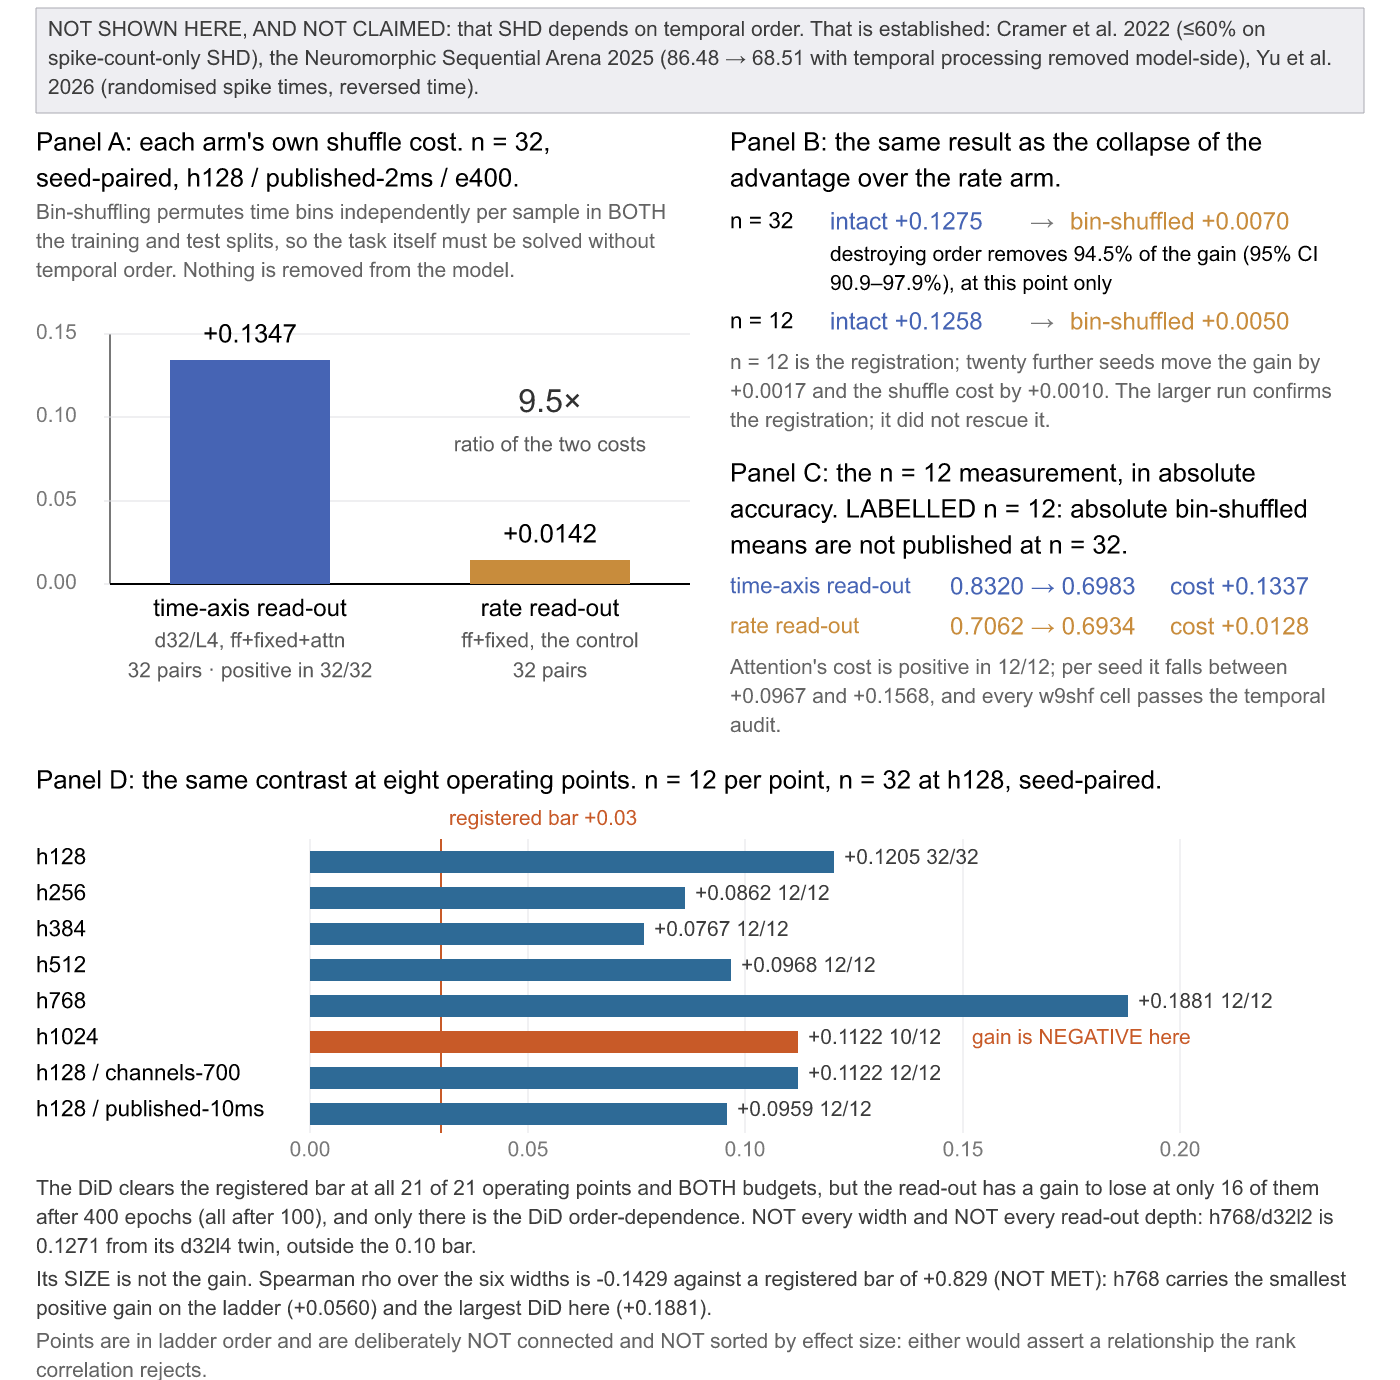
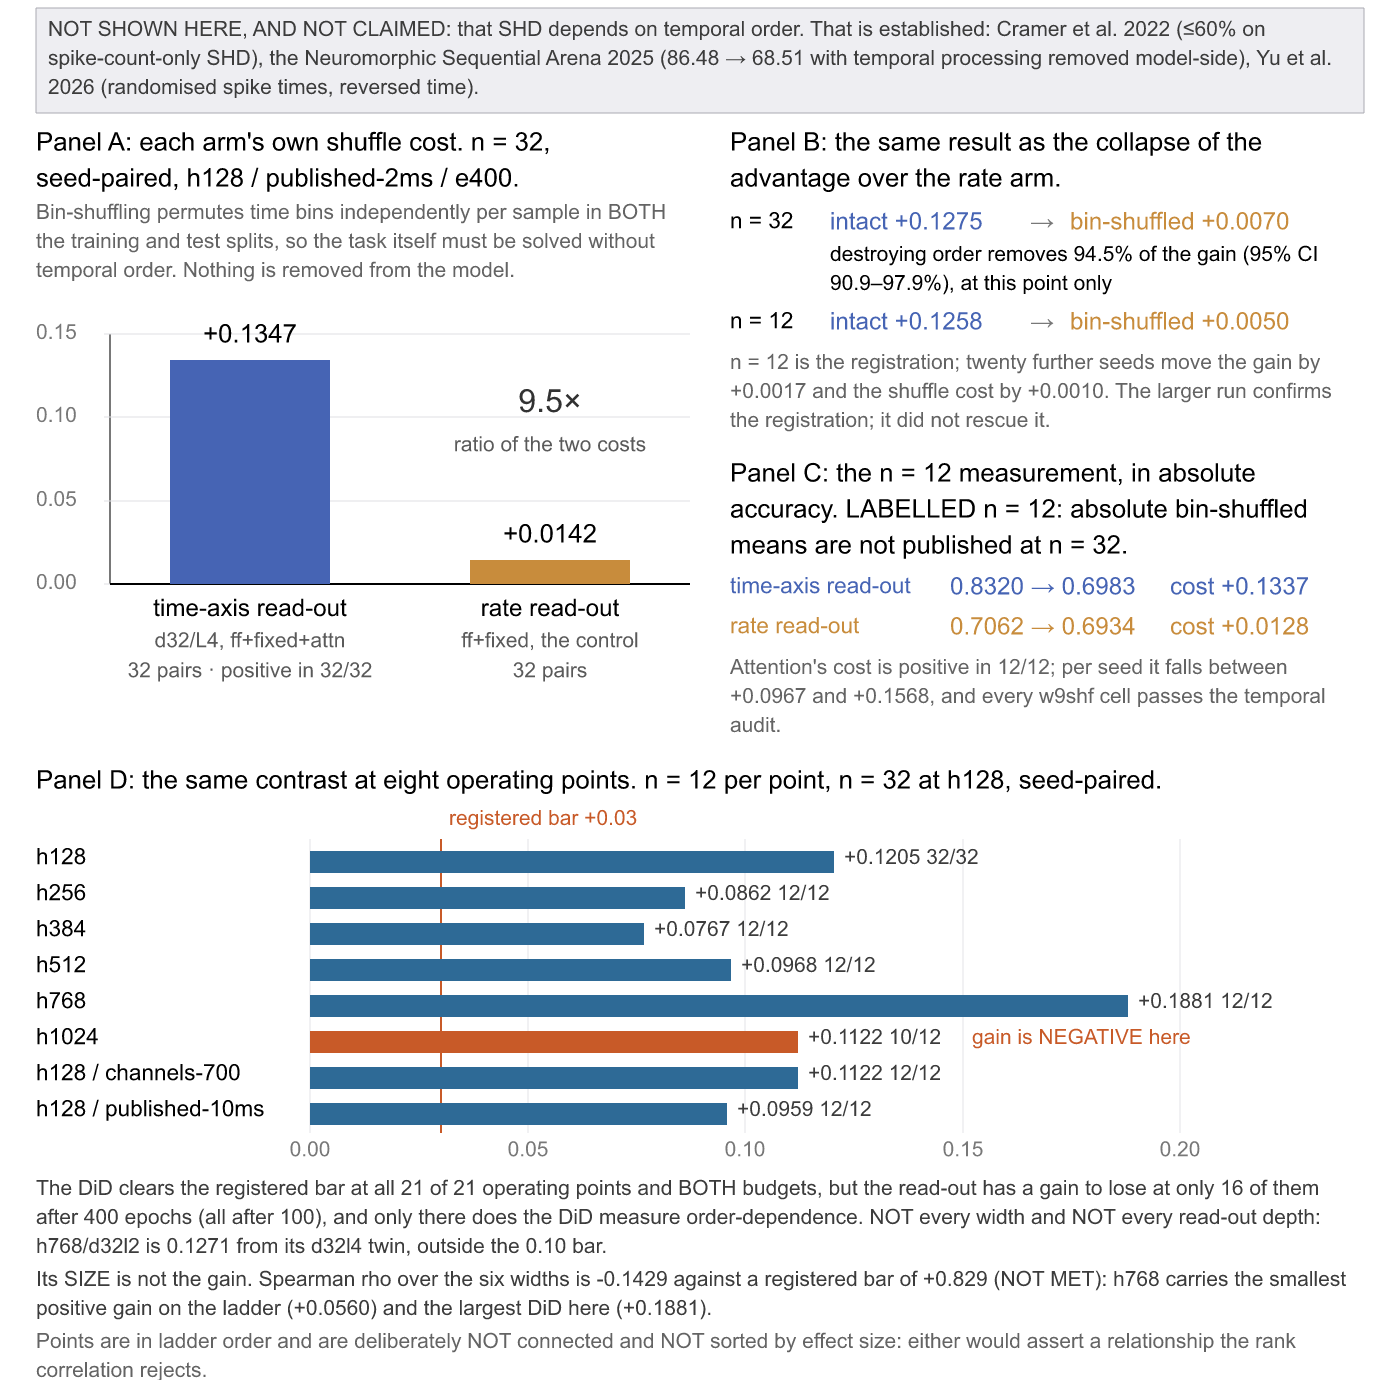
Say presence wherever there is a gain to lose, not everywhere
A review of the previous commit caught a regression: its new wording
("we claim presence everywhere and a proportion at one point") put back
the half of the claim the 2026-09-29 amendment retired. At 400 epochs
the read-out has a gain to lose at 16 of 21 points. The abstract, the
section 0 lead and the section 3.5 lead now say "presence wherever
there is a gain to lose", matching their own paragraphs; the
amendment's second section is corrected and says what happened.

The interval script's markdown output flagged rows by the lower bound
under the same name, "no gain to lose", that the paper's dagger uses
for the point estimate. It is now "gain interval reaches below the
bar"; DID_INTERVALS_2026-09-29.md is regenerated and differs from the
committed record only in that label (checked by substitution).

The h768 attribution of the failed Spearman prediction was recomputed
here rather than taken from the audit pass: rho is -0.1429 over six
widths, and dropping h768 is the only single removal that flips it
(to +0.30). Figure 1's footer and the 0.6934 sample size are reworded.

Changed region(s): [[0.3071, 0.8725, 0.9521, 0.9348], [0.0307, 0.8725, 0.1536, 0.9036], [0.215, 0.8725, 0.2764, 0.9348]]

diff --git a/scripts/did_confidence_intervals.py b/scripts/did_confidence_intervals.py
@@ -360,7 +360,10 @@ def render(rows):
             out.append(lead + f"| — | not paired: {row.reason} | — | — | — | |")
             continue
         s = row.stats
-        flag = ("**no gain to lose**" if s["gain_intact_ci"][0] < NO_GAIN_BAR else "")
+        # Named for its criterion, the LOWER BOUND. The paper's † is the point
+        # estimate ("no gain to lose"); until 2026-09-29 both carried that name.
+        flag = ("**gain interval reaches below the bar**"
+                if s["gain_intact_ci"][0] < NO_GAIN_BAR else "")
         if row.note:
             notes.append(len(notes) + 1)
             flag = (flag + f" [{notes[-1]}]").strip()
@@ -384,7 +387,7 @@ def document(table, footnotes):
         "their difference (the DiD), each with a paired percentile bootstrap 95% "
         f"interval ({RESAMPLES:,} resamples of seed quadruples, RNG seed "
         f"{RNG_SEED}). Arms are read through each wave's frozen analyser. "
-        f"**no gain to lose** marks rows whose intact-gain lower bound is below "
+        f"**gain interval reaches below the bar** marks rows whose intact-gain lower bound is below "
         f"+{NO_GAIN_BAR:.2f}: there, a positive DiD does not show attention "
         "losing a temporal advantage it had.",
         "",

diff --git a/binn-lab/src/paper_figures.rs b/binn-lab/src/paper_figures.rs
@@ -1358,7 +1358,7 @@ fn draw_lead_fig1(root: &DrawingArea<SVGBackend<'_>, Shift>) -> Result<(), DrawE
         (LEFT, y),
         RIGHT - LEFT,
         &format!(
-            "The DiD clears the registered bar at all {} of {} operating points and BOTH budgets, but the read-out has a gain to lose at only {} of them after 400 epochs (all after 100), and only there is the DiD order-dependence. NOT every width and NOT every read-out depth: h768/d32l2 is 0.1271 from its d32l4 twin, outside the 0.10 bar.",
+            "The DiD clears the registered bar at all {} of {} operating points and BOTH budgets, but the read-out has a gain to lose at only {} of them after 400 epochs (all after 100), and only there does the DiD measure order-dependence. NOT every width and NOT every read-out depth: h768/d32l2 is 0.1271 from its d32l4 twin, outside the 0.10 bar.",
             nums::COVERAGE_COVERED, nums::COVERAGE_TOTAL, nums::GAIN_POINTS_E400
         ),
         ty::NOTE,

diff --git a/scripts/test_did_confidence_intervals.py b/scripts/test_did_confidence_intervals.py
@@ -195,7 +195,10 @@ class Bootstrap(unittest.TestCase):
         self.assertIn((512, "d32l1", 400), flagged)
         self.assertNotIn((128, "d32l4", 400), flagged)
         table, _ = DCI.render([find(512, *ANCHOR, "d32l1", 400)])
-        self.assertIn("no gain to lose", table[-1])
+        # The lower-bound criterion carries its own name; "no gain to lose"
+        # is the paper's point-estimate mark (†), a different, smaller set.
+        self.assertIn("gain interval reaches below the bar", table[-1])
+        self.assertNotIn("no gain to lose", table[-1])
 
 
 class ShareOfTheGain(unittest.TestCase):

diff --git a/results/DID_INTERVALS_2026-09-29.md b/results/DID_INTERVALS_2026-09-29.md
@@ -1,6 +1,6 @@
 # Bootstrap intervals on the gain and the difference-in-differences
 
-Generated by `python3 scripts/did_confidence_intervals.py --markdown results/DID_INTERVALS_2026-09-29.md`; do not edit by hand. For every operating point `scripts/mechanism_coverage.py` lists, at each budget where all four arms exist, it reports the seed-paired intact gain (attention − rate), the same gain under the destruction operator, and their difference (the DiD), each with a paired percentile bootstrap 95% interval (10,000 resamples of seed quadruples, RNG seed 20260929). Arms are read through each wave's frozen analyser. **no gain to lose** marks rows whose intact-gain lower bound is below +0.03: there, a positive DiD does not show attention losing a temporal advantage it had.
+Generated by `python3 scripts/did_confidence_intervals.py --markdown results/DID_INTERVALS_2026-09-29.md`; do not edit by hand. For every operating point `scripts/mechanism_coverage.py` lists, at each budget where all four arms exist, it reports the seed-paired intact gain (attention − rate), the same gain under the destruction operator, and their difference (the DiD), each with a paired percentile bootstrap 95% interval (10,000 resamples of seed quadruples, RNG seed 20260929). Arms are read through each wave's frozen analyser. **gain interval reaches below the bar** marks rows whose intact-gain lower bound is below +0.03: there, a positive DiD does not show attention losing a temporal advantage it had.
 
 | width | contract | geometry | read-out | budget | destruction | source | n | gain intact [95% CI] | gain destroyed [95% CI] | DiD [95% CI] | DiD > 0 | flag |
 |---:|---|---|---|---|---|---|---:|---:|---:|---:|---:|---|
@@ -21,31 +21,31 @@ Generated by `python3 scripts/did_confidence_intervals.py --markdown results/DID
 | 128 | `published-2ms` | `adjacent-sum-5` | d32l4 | e400 | hidden-shuffled | W27 w27hid vs w26pos | 12 | +0.1258 [+0.1195, +0.1317] | +0.0099 [−0.0001, +0.0208] | +0.1159 [+0.1061, +0.1247] | 12/12 | [1] |
 | 128 | `published-2ms` | `adjacent-sum-5` | d64l4 | e400 | bin-shuffled | W22 w22cov | 12 | +0.1379 [+0.1301, +0.1455] | +0.0048 [−0.0003, +0.0106] | +0.1331 [+0.1239, +0.1421] | 12/12 |  |
 | 128 | `published-2ms` | `adjacent-sum-5` | d64l4 | e100 | bin-shuffled | W25 w25mec (rate arms w24ord) | 12 | +0.1682 [+0.1625, +0.1744] | +0.0301 [+0.0213, +0.0385] | +0.1381 [+0.1296, +0.1468] | 12/12 |  |
-| 128 | `published-2ms` | `channels-700` | d32l1 | e400 | bin-shuffled | W22 w22cov | 12 | +0.0243 [+0.0090, +0.0391] | −0.1127 [−0.1200, −0.1058] | +0.1369 [+0.1203, +0.1539] | 12/12 | **no gain to lose** |
+| 128 | `published-2ms` | `channels-700` | d32l1 | e400 | bin-shuffled | W22 w22cov | 12 | +0.0243 [+0.0090, +0.0391] | −0.1127 [−0.1200, −0.1058] | +0.1369 [+0.1203, +0.1539] | 12/12 | **gain interval reaches below the bar** |
 | 128 | `published-2ms` | `channels-700` | d32l1 | e100 | bin-shuffled | W25 w25mec (rate arms w25mec) | 12 | +0.0587 [+0.0447, +0.0730] | −0.0554 [−0.0624, −0.0482] | +0.1140 [+0.1037, +0.1241] | 12/12 |  |
 | 128 | `published-2ms` | `channels-700` | d32l4 | e400 | bin-shuffled | W21 corpus | 12 | +0.1090 [+0.0860, +0.1279] | −0.0032 [−0.0107, +0.0057] | +0.1122 [+0.0878, +0.1331] | 12/12 |  |
 | 128 | `published-2ms` | `channels-700` | d32l4 | e100 | bin-shuffled | W25 w25mec (rate arms w25mec) | 12 | +0.1504 [+0.1398, +0.1593] | +0.0250 [+0.0185, +0.0324] | +0.1255 [+0.1120, +0.1373] | 12/12 |  |
-| 256 | `published-2ms` | `adjacent-sum-5` | d32l1 | e400 | bin-shuffled | W22 w22cov | 12 | +0.0150 [+0.0051, +0.0250] | −0.0608 [−0.0734, −0.0494] | +0.0758 [+0.0624, +0.0910] | 12/12 | **no gain to lose** |
+| 256 | `published-2ms` | `adjacent-sum-5` | d32l1 | e400 | bin-shuffled | W22 w22cov | 12 | +0.0150 [+0.0051, +0.0250] | −0.0608 [−0.0734, −0.0494] | +0.0758 [+0.0624, +0.0910] | 12/12 | **gain interval reaches below the bar** |
 | 256 | `published-2ms` | `adjacent-sum-5` | d32l1 | e100 | bin-shuffled | W25 w25mec (rate arms w25mec) | 12 | +0.0611 [+0.0493, +0.0750] | −0.0218 [−0.0278, −0.0159] | +0.0830 [+0.0679, +0.1010] | 12/12 |  |
 | 256 | `published-2ms` | `adjacent-sum-5` | d32l4 | e400 | bin-shuffled | W21 corpus | 12 | +0.0966 [+0.0869, +0.1066] | +0.0104 [+0.0030, +0.0185] | +0.0862 [+0.0715, +0.1007] | 12/12 |  |
 | 256 | `published-2ms` | `adjacent-sum-5` | d32l4 | e100 | bin-shuffled | W25 w25mec (rate arms w25mec) | 12 | +0.1251 [+0.1125, +0.1372] | +0.0253 [+0.0184, +0.0330] | +0.0998 [+0.0820, +0.1161] | 12/12 |  |
 | 384 | `published-2ms` | `adjacent-sum-5` | d32l4 | e400 | bin-shuffled | W21 corpus | 12 | +0.0760 [+0.0666, +0.0864] | −0.0007 [−0.0098, +0.0078] | +0.0767 [+0.0653, +0.0881] | 12/12 |  |
 | 384 | `published-2ms` | `adjacent-sum-5` | d32l4 | e100 | bin-shuffled | W25 w25mec (rate arms w25mec) | 12 | +0.1205 [+0.1134, +0.1289] | +0.0317 [+0.0242, +0.0403] | +0.0888 [+0.0773, +0.0998] | 12/12 |  |
-| 512 | `published-2ms` | `adjacent-sum-5` | d32l1 | e400 | bin-shuffled | W22 w22cov | 12 | +0.0043 [−0.0110, +0.0190] | −0.0850 [−0.0940, −0.0760] | +0.0893 [+0.0732, +0.1030] | 12/12 | **no gain to lose** |
+| 512 | `published-2ms` | `adjacent-sum-5` | d32l1 | e400 | bin-shuffled | W22 w22cov | 12 | +0.0043 [−0.0110, +0.0190] | −0.0850 [−0.0940, −0.0760] | +0.0893 [+0.0732, +0.1030] | 12/12 | **gain interval reaches below the bar** |
 | 512 | `published-2ms` | `adjacent-sum-5` | d32l1 | e100 | bin-shuffled | W25 w25mec (rate arms w25mec) | 12 | +0.0572 [+0.0441, +0.0698] | −0.0161 [−0.0207, −0.0119] | +0.0733 [+0.0597, +0.0861] | 12/12 |  |
 | 512 | `published-2ms` | `adjacent-sum-5` | d32l4 | e400 | bin-shuffled | W21 corpus | 12 | +0.0876 [+0.0780, +0.0974] | −0.0092 [−0.0162, −0.0012] | +0.0968 [+0.0834, +0.1092] | 12/12 |  |
 | 512 | `published-2ms` | `adjacent-sum-5` | d32l4 | e100 | bin-shuffled | W25 w25mec (rate arms w25mec) | 12 | +0.1073 [+0.1011, +0.1126] | +0.0209 [+0.0167, +0.0247] | +0.0864 [+0.0814, +0.0912] | 12/12 |  |
 | 768 | `published-2ms` | `adjacent-sum-5` | d32l2 | e400 | bin-shuffled | W22 w22cov | 12 | +0.0419 [+0.0339, +0.0513] | −0.0191 [−0.0268, −0.0107] | +0.0610 [+0.0509, +0.0726] | 12/12 |  |
 | 768 | `published-2ms` | `adjacent-sum-5` | d32l2 | e100 | bin-shuffled | W25 w25mec (rate arms w25mec) | 12 | +0.0668 [+0.0569, +0.0767] | +0.0076 [−0.0001, +0.0150] | +0.0592 [+0.0489, +0.0691] | 12/12 |  |
-| 768 | `published-2ms` | `adjacent-sum-5` | d32l4 | e400 | bin-shuffled | W21 corpus | 12 | +0.0560 [+0.0216, +0.0788] | −0.1321 [−0.1822, −0.0827] | +0.1881 [+0.1443, +0.2345] | 12/12 | **no gain to lose** |
+| 768 | `published-2ms` | `adjacent-sum-5` | d32l4 | e400 | bin-shuffled | W21 corpus | 12 | +0.0560 [+0.0216, +0.0788] | −0.1321 [−0.1822, −0.0827] | +0.1881 [+0.1443, +0.2345] | 12/12 | **gain interval reaches below the bar** |
 | 768 | `published-2ms` | `adjacent-sum-5` | d32l4 | e100 | bin-shuffled | W25 w25mec (rate arms w25mec) | 12 | +0.1006 [+0.0930, +0.1080] | +0.0294 [+0.0229, +0.0354] | +0.0711 [+0.0594, +0.0822] | 12/12 |  |
-| 1024 | `published-2ms` | `adjacent-sum-5` | d32l1 | e400 | bin-shuffled | W22 w22cov | 12 | −0.0159 [−0.0216, −0.0103] | −0.0834 [−0.0917, −0.0770] | +0.0675 [+0.0584, +0.0779] | 12/12 | **no gain to lose** |
+| 1024 | `published-2ms` | `adjacent-sum-5` | d32l1 | e400 | bin-shuffled | W22 w22cov | 12 | −0.0159 [−0.0216, −0.0103] | −0.0834 [−0.0917, −0.0770] | +0.0675 [+0.0584, +0.0779] | 12/12 | **gain interval reaches below the bar** |
 | 1024 | `published-2ms` | `adjacent-sum-5` | d32l1 | e100 | bin-shuffled | W24 w24ord | 12 | +0.0442 [+0.0339, +0.0547] | −0.0192 [−0.0254, −0.0121] | +0.0633 [+0.0548, +0.0722] | 12/12 |  |
 | 1024 | `published-2ms` | `adjacent-sum-5` | d32l2 | e400 | bin-shuffled | W22 w22cov | 12 | +0.0392 [+0.0310, +0.0479] | −0.0267 [−0.0326, −0.0211] | +0.0658 [+0.0541, +0.0783] | 12/12 |  |
 | 1024 | `published-2ms` | `adjacent-sum-5` | d32l2 | e100 | bin-shuffled | W25 w25mec (rate arms w24ord) | 12 | +0.0554 [+0.0436, +0.0658] | +0.0085 [+0.0003, +0.0159] | +0.0469 [+0.0327, +0.0580] | 11/12 |  |
-| 1024 | `published-2ms` | `adjacent-sum-5` | d32l3 | e400 | bin-shuffled | W22 w22cov | 12 | +0.0324 [+0.0165, +0.0459] | −0.0352 [−0.0443, −0.0271] | +0.0675 [+0.0491, +0.0816] | 11/12 | **no gain to lose** |
+| 1024 | `published-2ms` | `adjacent-sum-5` | d32l3 | e400 | bin-shuffled | W22 w22cov | 12 | +0.0324 [+0.0165, +0.0459] | −0.0352 [−0.0443, −0.0271] | +0.0675 [+0.0491, +0.0816] | 11/12 | **gain interval reaches below the bar** |
 | 1024 | `published-2ms` | `adjacent-sum-5` | d32l3 | e100 | bin-shuffled | W25 w25mec (rate arms w24ord) | 12 | +0.0711 [+0.0633, +0.0791] | +0.0210 [+0.0153, +0.0263] | +0.0502 [+0.0440, +0.0561] | 12/12 |  |
-| 1024 | `published-2ms` | `adjacent-sum-5` | d32l4 | e400 | bin-shuffled | W21 corpus | 12 | −0.1618 [−0.2105, −0.1176] | −0.2740 [−0.3602, −0.2095] | +0.1122 [+0.0371, +0.2027] | 10/12 | **no gain to lose** [2] |
+| 1024 | `published-2ms` | `adjacent-sum-5` | d32l4 | e400 | bin-shuffled | W21 corpus | 12 | −0.1618 [−0.2105, −0.1176] | −0.2740 [−0.3602, −0.2095] | +0.1122 [+0.0371, +0.2027] | 10/12 | **gain interval reaches below the bar** [2] |
 | 1024 | `published-2ms` | `adjacent-sum-5` | d32l4 | e100 | bin-shuffled | W25 w25mec (rate arms w24ord) | 12 | +0.0827 [+0.0733, +0.0921] | +0.0199 [+0.0148, +0.0256] | +0.0628 [+0.0522, +0.0735] | 12/12 |  |
 
 [1] h128 d32l4 e400 hidden-shuffled: rate arm identical under this operator (H27-1), so DiD = attention's own drop

diff --git a/results/PAPER_DRAFT.md b/results/PAPER_DRAFT.md
@@ -66,7 +66,7 @@ synchrony as well costs up to **+0.1308** more at coarse bins, an upper bound
 because that operator also raises the substrate's activity. Our registered
 prediction that the effect's size tracks the gain across widths failed
 (Spearman **ρ = −0.1429**), so the anchor's share does not transfer: we claim
-presence everywhere and a proportion at one point. Every contrast was
+presence wherever there is a gain to lose, and a proportion at one point. Every contrast was
 preregistered with a numeric bar on a frozen configuration; the intervals, the
 share and the gain-to-lose reading were added afterwards and are marked as such.
 All numbers are recomputed from archived runs by scripts released with the
@@ -131,7 +131,7 @@ Neuromorphic Sequential Arena [@chen2025nsa] removes temporal propagation
 Table S4). Two destruction operators on two different sides of the model, one
 conclusion, both prior to this work. Our shuffle is not their counts-only
 condition: it keeps each utterance's length and the synchrony within a bin, and a
-rate read-out on bin-shuffled input still reaches 0.6934 at the anchor, above
+rate read-out on bin-shuffled input still reaches 0.6934 at the anchor (n = 12), above
 their 60% mark. Count-preserving randomisation of spike
 order has been proposed as a robustness benchmark in its own right
 [@hindman2026tempo], and for N-MNIST it has been shown that timing is not needed
@@ -181,7 +181,8 @@ language modelling [@sinha2021order]. And the outcome is not guaranteed by the
 architecture: attention with positional encodings has been found nearly
 insensitive to shuffled input in time-series forecasting [@zeng2023ltsf].
 
-**The claim is presence everywhere, and a proportion at one point.** Across
+**The claim is presence wherever there is a gain to lose, and a proportion at
+one point.** Across
 twenty-one operating points at two training budgets, the read-out's gain depends
 on order wherever it has a gain to lose (at every point after 100 epochs and at
 sixteen of twenty-one after 400), and the *size* of the dependence does not track
@@ -549,7 +550,7 @@ of 12). Appendix F gives the three manipulations in full.
 ([`RESULT_2026-09-06_W28_THE_READ_OUT_SURVIVES_WHAT_THE_SUBSTRATE_CANNOT.md`](RESULT_2026-09-06_W28_THE_READ_OUT_SURVIVES_WHAT_THE_SUBSTRATE_CANNOT.md);
 [`RESULT_2026-09-09_W29_THE_ASYMMETRY_HAS_ITS_OWN_BAR.md`](RESULT_2026-09-09_W29_THE_ASYMMETRY_HAS_ITS_OWN_BAR.md))
 
-**Presence everywhere, and a proportion at one point.** At the anchor,
+**Presence wherever there is a gain to lose, and a proportion at one point.** At the anchor,
 destroying order removes **94.5%** of the gain (95% CI 90.9–97.9%, n = 32). That
 share does not transfer. The registered prediction that the DiD would track the
 gain across the six widths failed: Spearman ρ = **−0.1429** against the

diff --git a/results/AMENDMENT_2026-09-29_THE_CLAIM_IS_WHERE_THERE_IS_A_GAIN_TO_LOSE.md b/results/AMENDMENT_2026-09-29_THE_CLAIM_IS_WHERE_THERE_IS_A_GAIN_TO_LOSE.md
@@ -55,8 +55,10 @@ same breath, printed "94.5% of the advantage is contingent on temporal order"
 in Figure 1, its caption and §3.8. The second-pass audit
 ([`AUDIT_2026-09-29_SECOND_PASS_BEFORE_COMMIT.md`](AUDIT_2026-09-29_SECOND_PASS_BEFORE_COMMIT.md))
 found the contradiction. The author chose to keep the number and narrow the
-non-claim: the claim is now **presence everywhere and a proportion at one
-point**.
+non-claim: the claim is now **presence wherever there is a gain to lose, and a
+proportion at one point**. (A first draft of this change said "presence
+everywhere", the phrase the first section retired; it was caught in review
+before submission.)
 
 **The number.** At the anchor (n = 32), destroying order removes **94.5%** of
 the gain, DiD / gain(intact) as a ratio of seed means, with a paired bootstrap
